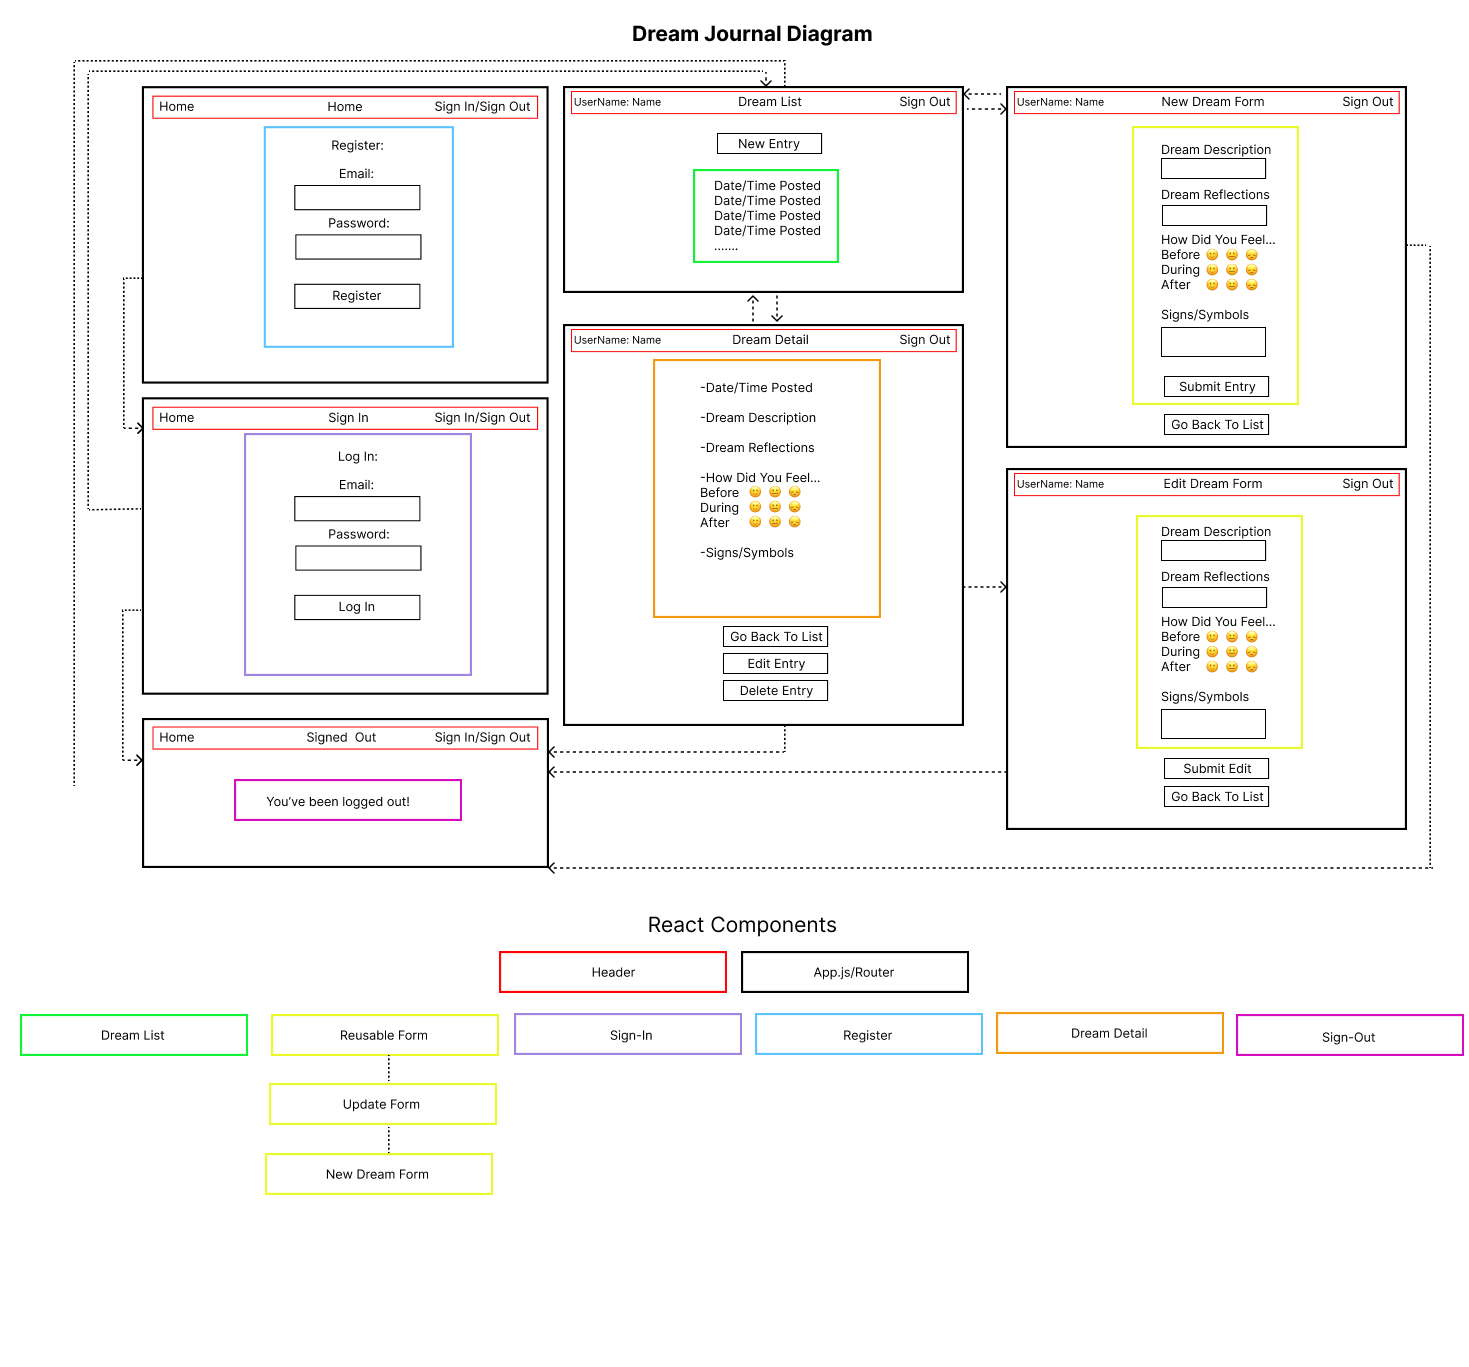
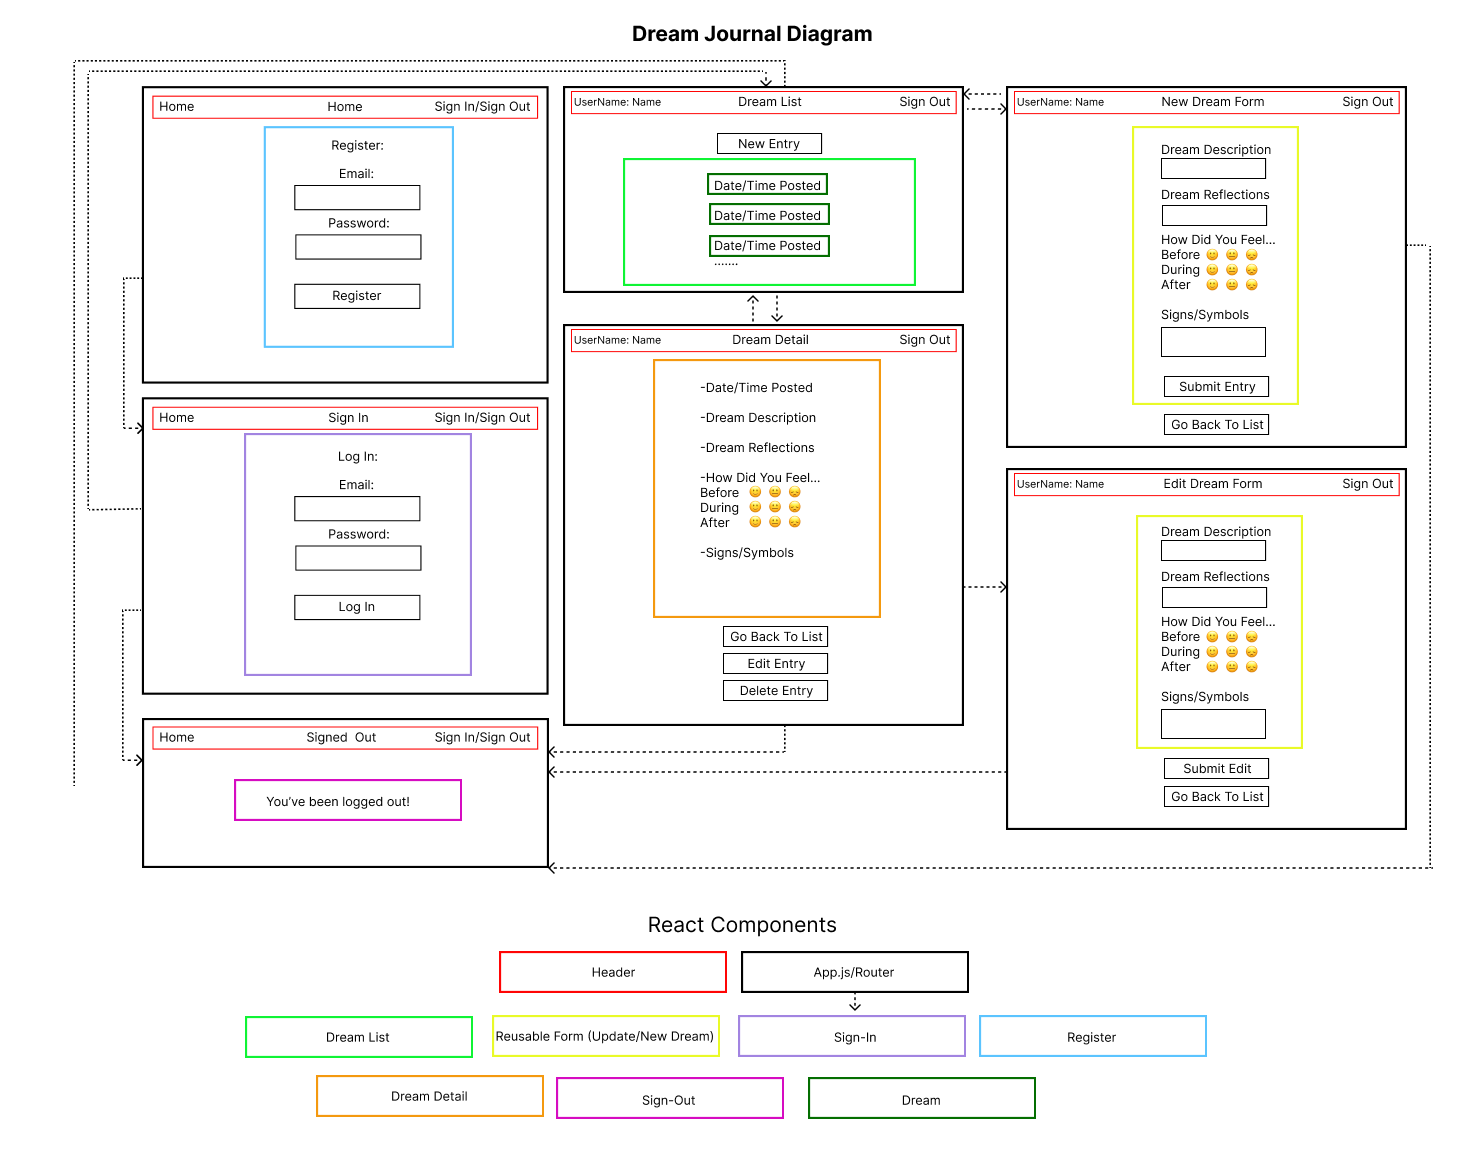
Add Dream and DreamList

diff --git a/src/components/App.js b/src/components/App.js
@@ -47,8 +47,9 @@ const handleEditingDreamInList = () => {
   console.log("handleEditingDreamInList")
 }
   
-const handleChangingSelectedDream = () => {
-  console.log("handleChangingSelectedDream")
+const handleChangingSelectedDream = (id) => {
+  const selection = mainDreamList.filter(dream => dream.id === id)[0];
+  setSelectedDream(selection);
 }
 
 const handleDeletingDream = () => {
@@ -63,7 +64,7 @@ const handleDeletingDream = () => {
         <Route path="/sign-in" element={<SignIn />} />
         <Route path="/sign-out" element={<SignOut />} />
         <Route path="/dream-detail" element={<DreamDetail dream={selectedDream} onClickingDelete={handleDeletingDream} />} />
-        <Route path="/dream-list" element={<DreamList />} />
+        <Route path="/dream-list" element={<DreamList onDreamSelection={handleChangingSelectedDream} dreamList={mainDreamList}/>} />
         <Route path="/new-dream-form" element={<ReusableForm onNewDreamCreation={handleAddingNewDreamToList}/>} />
         <Route path="/edit-dream-form" element={<ReusableForm onEditDream={handleEditingDreamInList} dream={selectedDream}/>} />
       </Routes>

diff --git a/src/components/SignOut.js b/src/components/SignOut.js
@@ -1,8 +1,26 @@
-import React from "react";
+import React, { useState } from "react";
+import { auth } from "./../firebase.js";
+import { signOut } from "firebase/auth";
 
-function SignOut(){
+function SignOut() {
+  const [ signOutSuccess, setSignOutSuccess ] = useState(null);
+
+  function doSignOut() {
+  signOut(auth)
+    .then(function() {
+      setSignOutSuccess("You have successfully signed out!");
+    }).catch(function(error) {
+      setSignOutSuccess(`There was an error signing out: ${error.message}!`);
+    });
+  }
+    
   return (
-    <h1>Sign Out</h1>
+    <React.Fragment>
+      <h1>Sign Out</h1>
+      {signOutSuccess}
+      <br />
+      <button onClick={doSignOut}>Sign Out</button>
+    </React.Fragment>
   );
 }
 

diff --git a/src/components/DreamList.js b/src/components/DreamList.js
@@ -1,13 +1,28 @@
 import React from "react";
 import { Link } from "react-router-dom";
+import PropTypes from "prop-types";
+import Dream from "./Dream";
 
-function DreamList(){
+function DreamList(props){
   return (
     <React.Fragment>
       <Link to="/new-dream-form">Add New Dream</Link>
-      <h1>Dream List</h1>
+      {props.dreamList.map((dream)=>
+      <Dream
+      whenDreamClicked={props.onDreamSelection}
+      date={dream.date}
+      id={dream.id}
+      key={dream.id}/>
+      
+      )}
     </React.Fragment>
   );
 }
 
 export default DreamList
+
+
+DreamList.propTypes = {
+  dreamList: PropTypes.array,
+  onDreamSelection: PropTypes.func
+}

diff --git a/src/components/Dream.js b/src/components/Dream.js
@@ -1,0 +1,19 @@
+import React from "react";
+import PropTypes from "prop-types";
+
+function Dream(props){
+  return (
+    <React.Fragment>
+      <div onClick = {() => props.whenDreamClicked(props.id)}>
+        <h3>{props.date}</h3>
+        <hr/>
+      </div>
+    </React.Fragment>
+  );
+}
+
+Dream.propTypes = {
+  date: PropTypes.instanceOf(Date)
+}
+
+export default Dream;

diff --git a/src/components/ReusableForm.js b/src/components/ReusableForm.js
@@ -49,6 +49,9 @@ function ReusableForm(props) {
           id='happyBefore'
           value='happy'/>
           <label htmlFor="happyBefore">happy</label>
+          <label htmlFor="date">Date:</label>
+          <input type="date" id="date" name="date"></input>
+
           <button type='submit'>Submit</button>
           </form>
         </React.Fragment>
